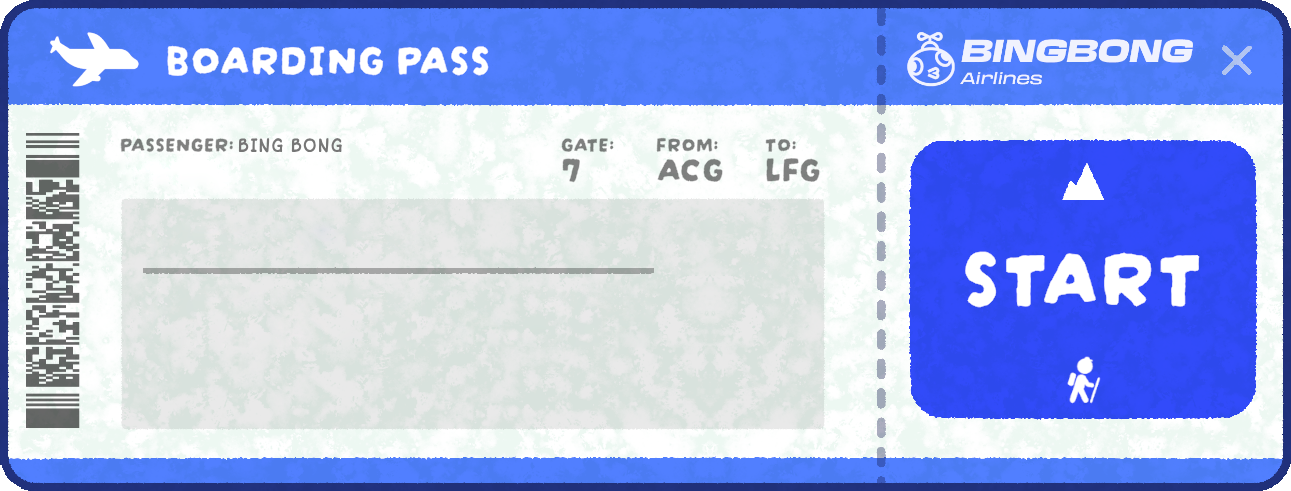
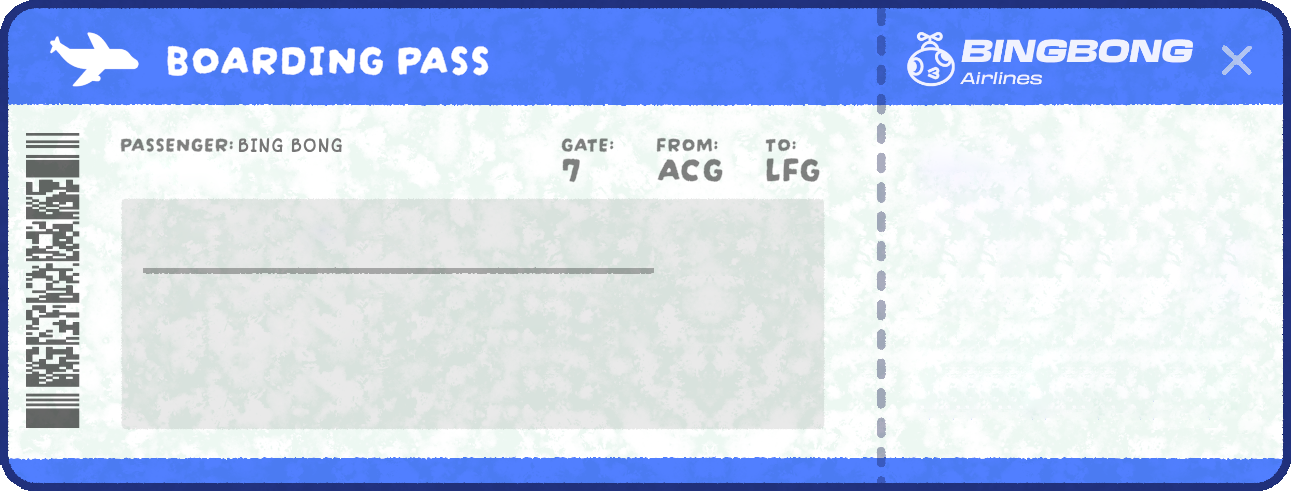
Finaliazado

Changed region(s): [[0.6816, 0.2749, 0.9915, 0.8554]]

diff --git a/map.html b/map.html
@@ -12,27 +12,27 @@
         <div class="SlideMaps-Container">
             <!-- Full-width images with number and caption text -->
             <div class="Maps fade">
-                <!-- <div class="mapName">1 / 4</div> -->
-                <img src="https://picsum.photos/seed/qiz/1080/720" />
-                <!-- <div class="mapDescription"> Lorem ipsum dolor sit amet consectetur adipisicing elit. Deleniti, sit atque. Distinctio, at quidem inventore iste vel animi eos iure! Sapiente consequuntur tempore modi consectetur officia asperiores nostrum alias doloribus?</div> -->
+                <img src="media/imagen/Costa_Fondo.png" />
+                </div>
+
+            <div class="Maps fade">
+                <img src="media/imagen/Trópico_Fondo.png" />
             </div>
 
             <div class="Maps fade">
-                <!-- <div class="mapName">2 / 4</div> -->
-                <img src="https://picsum.photos/seed/lorem/1080/720" />
-                <!-- <div class="mapDescription">Description 2</div> -->
+                <img src="media/imagen/Raices_Fondo.png" />
             </div>
 
             <div class="Maps fade">
-                <!-- <div class="mapName">3 / 4</div> -->
-                <img src="https://picsum.photos/seed/foo/1080/720" />
-                <!-- <div class="mapDescription">Description 3</div> -->
+                <img src="media/imagen/Alpino_Fondo.webp" />
             </div>
 
             <div class="Maps fade">
-                <!-- <div class="mapName">4 / 4</div> -->
-                <img src="https://picsum.photos/seed/uck/1080/720" />
-                <!-- <div class="mapDescription">Description 4</div> -->
+                <img src="media/imagen/Mesa_Fondo.png" />
+            </div>
+
+            <div class="Maps fade">
+                <img src="media/imagen/Caldera_Fondo.webp" />
             </div>
 
             
@@ -47,30 +47,35 @@
                     <img src="media/imagen/Billete_Boton.png">
                 </a>
                 <div class="mapText">
-                    <div class="mapName">1 / 4</div>
-                    <div class="mapDescription"> Lorem ipsum dolor sit amet consectetur adipisicing elit. Deleniti, sit atque. Distinctio, at quidem inventore iste vel animi eos iure! Sapiente consequuntur tempore modi consectetur officia asperiores nostrum alias doloribus?</div>
+                    <div class="mapName">La Costa</div>
+                    <div class="mapDescription"> La Costa es una playa de arena en las afueras de la isla con un gran acantilado montañoso adelante.</div>
                 </div>
                 <div class="mapText">
-                    <div class="mapName">2 / 4</div>
-                    <div class="mapDescription"> Lorem ipsum dolor sit amet consectetur adipisicing elit. Deleniti, sit atque. Distinctio, at quidem inventore iste vel animi eos iure! Sapiente consequuntur tempore modi consectetur officia asperiores nostrum alias doloribus?</div>
+                    <div class="mapName">El Trópico</div>
+                    <div class="mapDescription"> El Trópico es uno de los dos posibles segundos biomas después de la Costa. Se compone de una jungla con raíces de hiedra gigantes, árboles y enredaderas esparcidas por todo el acantilado.</div>
                 </div>
                 <div class="mapText">
-                    <div class="mapName">3 / 4</div>
-                    <div class="mapDescription"> Lorem ipsum dolor sit amet consectetur adipisicing elit. Deleniti, sit atque. Distinctio, at quidem inventore iste vel animi eos iure! Sapiente consequuntur tempore modi consectetur officia asperiores nostrum alias doloribus?</div>
+                    <div class="mapName">Las Raíces</div>
+                    <div class="mapDescription"> Las Raices es el segundo de los dos posibles segundos biomas después de la Costa. Está compuesto por un bosque de secuoyas infestado de setas.</div>
                 </div>
                 <div class="mapText">
-                    <div class="mapName">4 / 4</div>
-                    <div class="mapDescription"> Lorem ipsum dolor sit amet consectetur adipisicing elit. Deleniti, sit atque. Distinctio, at quidem inventore iste vel animi eos iure! Sapiente consequuntur tempore modi consectetur officia asperiores nostrum alias doloribus?</div>
+                    <div class="mapName">El Alpino</div>
+                    <div class="mapDescription"> El Alpino es uno de los dos posibles terceros biomas. Es una zona nevada y montañosa con un acantilado lleno de cuevas.</div>
                 </div>
+                <div class="mapText">
+                    <div class="mapName">La Mesa</div>
+                    <div class="mapDescription"> La Mesa es el segundo de los dos posibles terceros biomas. Es un desierto seco y cálido separado por un gran cañón.</div>
+                </div>
+                <div class="mapText">
+                    <div class="mapName">La Caldera</div>
+                    <div class="mapDescription"> La Caldera es el cuarto bioma. Es un gran lago de lava con varias formaciones rocosas altas.</div>
+                </div>
+                <a href="index.html" class="map-start">
+                    <img src="media/imagen/Billete_Start.png">
+                </a>
             </div>
 
-                <!-- The dots/circles -->
-        <div style="text-align: center">
-            <span class="dot"></span>
-            <span class="dot"></span>
-            <span class="dot"></span>
-            <span class="dot"></span>
-        </div>
+
 
         <!-- SCRIPT DE JS  -->
          <script src="js/map_rotator.js"></script>

diff --git a/js/map_rotator.js b/js/map_rotator.js
@@ -10,11 +10,9 @@ console.log("Script Cargado");
 let slideIndex = 1;
 
 
-// Inicializamos una variable para guardar el estado de funcionamiento automatico
-let autoSlide;
-
-
-let arrDots = document.querySelectorAll(".dot");
+let arrSlides = document.querySelectorAll(".Maps");
+let arrDesc = document.querySelectorAll(".mapText")
+let maxSlides = arrSlides.length;
 
 showSlide(slideIndex);
 
@@ -26,11 +24,7 @@ showSlide(slideIndex);
 
 //creamos el bucle para asociar a cada punto un evento click y que se llama a la funcion currentDotSlide()
 
-for (let j = 0; j < arrDots.length; j++){
-    arrDots[j].addEventListener("click", function() {
-    currentDotSlide(j);
-    });
-}
+
 
 /**
  * 
@@ -74,6 +68,8 @@ function nextPrevSlide (Index) {
     showSlide(slideIndex);
 }
 
+    
+
 /**
  * 
  * @param {number} slideNumber
@@ -82,10 +78,6 @@ function nextPrevSlide (Index) {
  *  
  */
 function showSlide (slideNumber) {
-    let arrSlides = document.querySelectorAll(".Maps");
-    let arrDesc = document.querySelectorAll(".mapText")
-    let maxSlides = arrSlides.length;
-
 
     //comprabnado de que no estemos fuera de array
     if (slideNumber > maxSlides) {
@@ -99,12 +91,10 @@ function showSlide (slideNumber) {
     for (let i = 0; i < maxSlides; i++) {
         arrSlides[i].style.display = "none";
         arrDesc[i].style.display = "none";
-        arrDots[i].className = arrDots[i].className.replace(" active", "");
     }
 
     arrSlides[slideIndex-1].style.display = "block";
     arrDesc[slideIndex-1].style.display = "block";
-    arrDots[slideIndex - 1].className += " active";
 }
 
 //Automatizamos la llamada de la funcion NextPrevSlide, usando la funcion setInterval

diff --git a/css/style.css b/css/style.css
@@ -397,8 +397,8 @@ main > #gallery > .gallery-cont {
     max-width: 720px;
     position:fixed;
     bottom: 0px;
-    left: 25%;
-    margin: 0px;
+    left: 50%;
+    margin-left: -360px;
 }
 
 /* Defining the buttons positions */
@@ -424,6 +424,19 @@ main > #gallery > .gallery-cont {
 
 .map-prev { 
     left: 370px;
+}
+
+.map-start {
+    cursor: pointer;
+    position: absolute;
+    width: 25%;
+    top: 31%;
+    left: 71.5%;
+    transition: 0.6s ease;
+}
+
+.map-start:hover{
+    top: 29.5%;
 }
 
 .map-prev:hover,
@@ -452,7 +465,4 @@ main > #gallery > .gallery-cont {
     max-width: 380px;
 }
 
-.dot{
-    display: none;
-}
 
